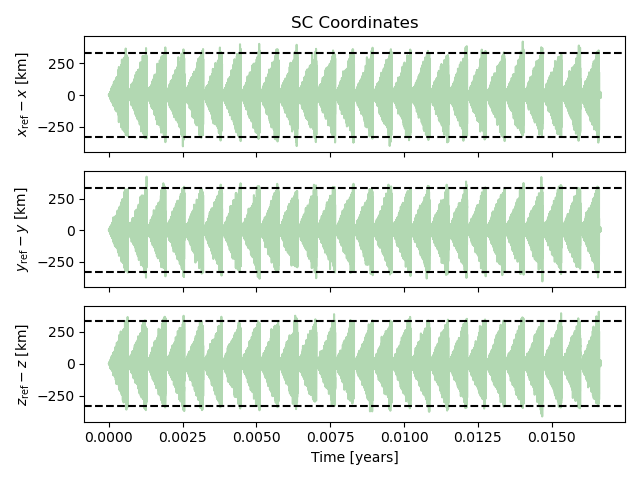
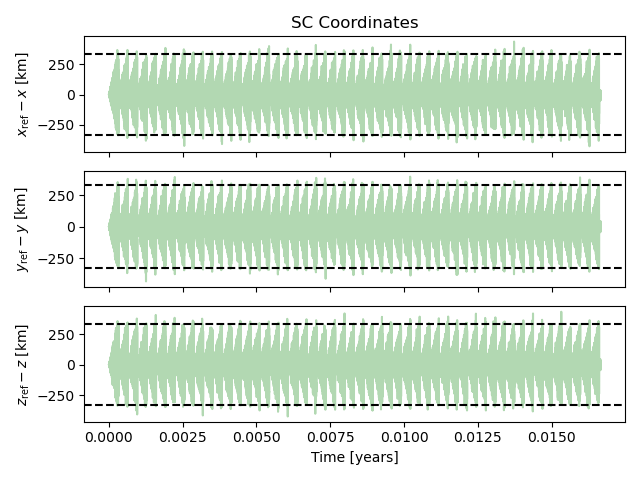
assess impact

diff --git a/utils.py b/utils.py
@@ -717,7 +717,7 @@ def plot_orbit_3d(fpath, T, Nshow=5, lam=None, beta=None, output_file="3d_orbit_
 
     # # Plot the plane
     # ax.plot_surface(xx, yy, zz, alpha=0.5, color='cyan', edgecolor='none')
-    # max_r = max(max_r, np.max(np.linalg.norm(sc1, axis=1)))
+    max_r = max(max_r, np.max(np.linalg.norm(sc1, axis=1)))
 
     # ax.set_xlabel('X Position (min)')
     # ax.set_ylabel('Y Position (min)')
@@ -738,7 +738,7 @@ def plot_orbit_3d(fpath, T, Nshow=5, lam=None, beta=None, output_file="3d_orbit_
             # y += sc1[0,1]
             # z += sc1[0,2]
             ax.scatter(x, y, z, color=color_function, marker='o', s=100, alpha=0.5)#, label=f"Scatter Point (r={radius}, λ={lam_s}, β={beta_s})")
-            max_r = radius
+        max_r = radius
     ax.legend()
     # Remove axis ticks, labels, and background
     ax.set_xticks([])

diff --git a/create_orbits.py b/create_orbits.py
@@ -13,7 +13,7 @@ logging.getLogger("lisainstrument").setLevel(logging.INFO)
 
 orbits_dt = 1000
 orbits_t0 = 2173211130.0 # s
-orbits_size = int(np.ceil(3600 * 24 * 365 / orbits_dt)) # a year, for illustration purposes
+orbits_size = int(np.ceil(3600 * 24 * 365 * 2 / orbits_dt)) # a year, for illustration purposes
 orbits_trim = 100
 
 from lisaorbits import KeplerianOrbits, OEMOrbits

diff --git a/assess_impact.py b/assess_impact.py
@@ -14,13 +14,13 @@ from utils import *
 import os
 
 fpath = "new_orbits.h5"
-T = 1.0/12  # years
+T = 1.0#/12  # years
 plot_orbit_3d(fpath, T)
 
 ################################################################
 use_gpu = False
 gb = GBWave(use_gpu=use_gpu )
-dt = 10.0
+dt = 5.0
 
 def get_response(orbit):
     # default settings
